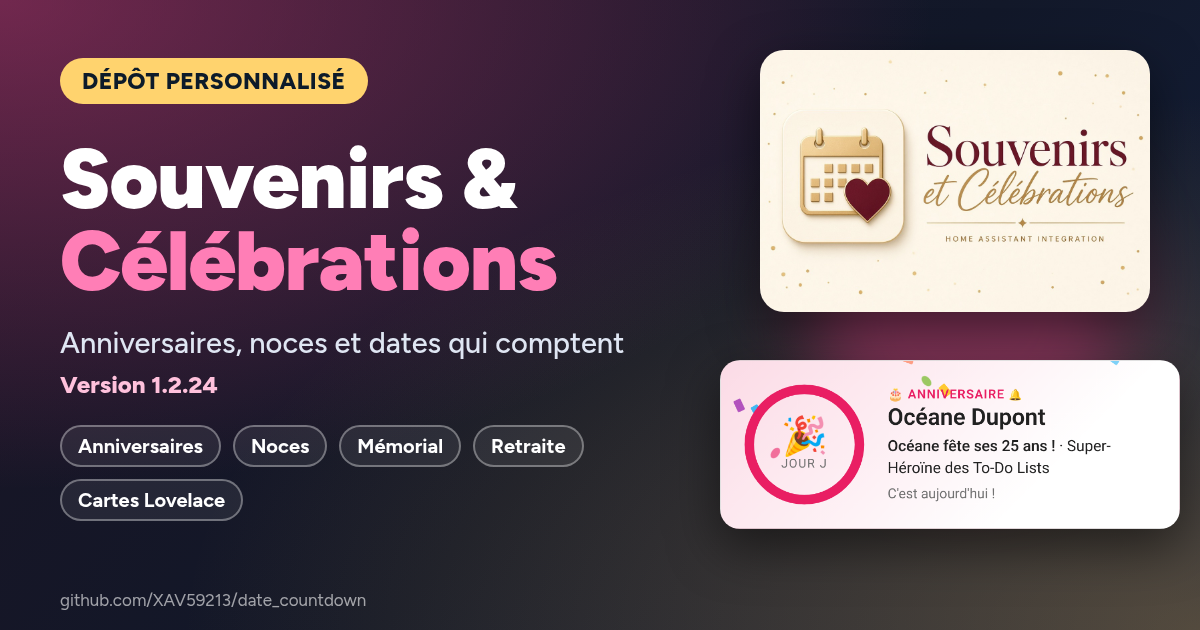
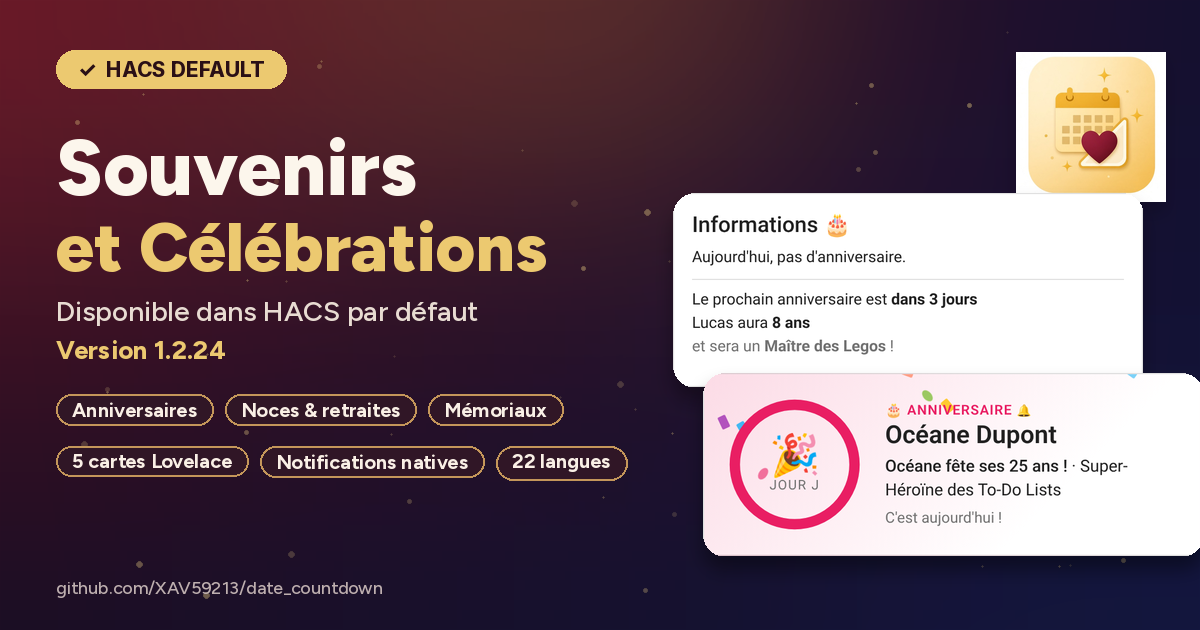
Souvenirs et Célébrations rejoint la bibliothèque officielle de HACS
L’intégration est désormais marquée officielle, avec la bannière HACS DEFAULT.
Le message 5587 du 20 novembre 2026 à 15 h 54 (Europe/Paris) est archivé dans
le sujet 4093, et une note éditoriale date l’entrée officielle (PR hacs/default#14559)
sans modifier le texte du message d’origine 5576. Les compteurs passent à 385 messages.

diff --git a/sujets/4093-integration-home-assistant-souvenirs-et-celebrations/messages.md b/sujets/4093-integration-home-assistant-souvenirs-et-celebrations/messages.md
@@ -1,47 +1,52 @@
 ---
 title: "🎂 Intégration Home Assistant – Souvenirs et Célébrations"
-description: "Je vous présente une intégration personnalisée que j’ai développée pour Home Assistant : Souvenirs et Célébrations . Elle permet de suivre, au fil de…"
+description: "Souvenirs et Célébrations est désormais dans la bibliothèque officielle de HACS : anniversaires, noces et dates qui comptent, avec des cartes Lovelace dédiées."
 image: /sujets/4093-integration-home-assistant-souvenirs-et-celebrations/images/banner-date_countdown.png
 date: 2026-11-20
 ---
 <p class="forum-cta"><a href="https://forumdomotique.com/forums/topic/4093-%F0%9F%8E%82-int%C3%A9gration-home-assistant-souvenirs-et-c%C3%A9l%C3%A9brations/">Lire et commenter sur Forum Domotique</a> · <a href="https://github.com/XAV59213/date_countdown">Dépôt HACS : Souvenirs et Célébrations</a></p>
 
 
-<section class="carousel photo-carousel" data-carousel data-lightbox aria-roledescription="carrousel" aria-label="Photos de l’article (7)" tabindex="0">
+<section class="carousel photo-carousel" data-carousel data-lightbox aria-roledescription="carrousel" aria-label="Photos de l’article (8)" tabindex="0">
 <div class="carousel-track" data-track>
 <figure class="photo-slide" data-slide>
-  <a href="images/apercu-global.png" data-full="images/apercu-global.png" data-alt="Photo 1 — 🎂 Intégration Home Assistant – Souvenirs et Célébrations" aria-label="Agrandir la photo 1 : Photo 1 — 🎂 Intégration Home Assistant – Souvenirs et Célébrations">
-    <img src="images/apercu-global.png" alt="Photo 1 — 🎂 Intégration Home Assistant – Souvenirs et Célébrations" loading="eager">
+  <a href="images/souvenirs-hacs-officiel-cover.png" data-full="images/souvenirs-hacs-officiel-cover.png" data-alt="Souvenirs et Célébrations est dans HACS par défaut" aria-label="Agrandir la photo 1 : Couverture HACS officiel">
+    <img src="images/souvenirs-hacs-officiel-cover.png" alt="Souvenirs et Célébrations est dans HACS par défaut" loading="eager">
   </a>
 </figure>
 <figure class="photo-slide" data-slide>
-  <a href="images/apercu-global-sombre.png" data-full="images/apercu-global-sombre.png" data-alt="Photo 2 — 🎂 Intégration Home Assistant – Souvenirs et Célébrations" aria-label="Agrandir la photo 2 : Photo 2 — 🎂 Intégration Home Assistant – Souvenirs et Célébrations">
-    <img src="images/apercu-global-sombre.png" alt="Photo 2 — 🎂 Intégration Home Assistant – Souvenirs et Célébrations" loading="lazy">
+  <a href="images/apercu-global.png" data-full="images/apercu-global.png" data-alt="Aperçu des cinq cartes, thème clair" aria-label="Agrandir la photo 2 : Aperçu des cinq cartes, thème clair">
+    <img src="images/apercu-global.png" alt="Photo 2 — 🎂 Intégration Home Assistant – Souvenirs et Célébrations" loading="lazy">
   </a>
 </figure>
 <figure class="photo-slide" data-slide>
-  <a href="images/informations.png" data-full="images/informations.png" data-alt="Photo 3 — 🎂 Intégration Home Assistant – Souvenirs et Célébrations" aria-label="Agrandir la photo 3 : Photo 3 — 🎂 Intégration Home Assistant – Souvenirs et Célébrations">
-    <img src="images/informations.png" alt="Photo 3 — 🎂 Intégration Home Assistant – Souvenirs et Célébrations" loading="lazy">
+  <a href="images/apercu-global-sombre.png" data-full="images/apercu-global-sombre.png" data-alt="Aperçu des cinq cartes, thème sombre" aria-label="Agrandir la photo 3 : Aperçu des cinq cartes, thème sombre">
+    <img src="images/apercu-global-sombre.png" alt="Aperçu des cinq cartes, thème sombre" loading="lazy">
   </a>
 </figure>
 <figure class="photo-slide" data-slide>
-  <a href="images/liste.png" data-full="images/liste.png" data-alt="Carte Liste / Agenda" aria-label="Agrandir la photo 4 : Carte Liste / Agenda">
+  <a href="images/informations.png" data-full="images/informations.png" data-alt="Carte Informations" aria-label="Agrandir la photo 4 : Carte Informations">
+    <img src="images/informations.png" alt="Carte Informations" loading="lazy">
+  </a>
+</figure>
+<figure class="photo-slide" data-slide>
+  <a href="images/liste.png" data-full="images/liste.png" data-alt="Carte Liste / Agenda" aria-label="Agrandir la photo 5 : Carte Liste / Agenda">
     <img src="images/liste.png" alt="Carte Liste / Agenda" loading="lazy">
   </a>
 </figure>
 <figure class="photo-slide" data-slide>
-  <a href="images/compte-a-rebours-jour-j.png" data-full="images/compte-a-rebours-jour-j.png" data-alt="Photo 5 — 🎂 Intégration Home Assistant – Souvenirs et Célébrations" aria-label="Agrandir la photo 5 : Photo 5 — 🎂 Intégration Home Assistant – Souvenirs et Célébrations">
-    <img src="images/compte-a-rebours-jour-j.png" alt="Photo 5 — 🎂 Intégration Home Assistant – Souvenirs et Célébrations" loading="lazy">
+  <a href="images/compte-a-rebours-jour-j.png" data-full="images/compte-a-rebours-jour-j.png" data-alt="Carte Compte à rebours, jour J" aria-label="Agrandir la photo 6 : Carte Compte à rebours, jour J">
+    <img src="images/compte-a-rebours-jour-j.png" alt="Carte Compte à rebours, jour J" loading="lazy">
   </a>
 </figure>
 <figure class="photo-slide" data-slide>
-  <a href="images/frise.png" data-full="images/frise.png" data-alt="Photo 6 — 🎂 Intégration Home Assistant – Souvenirs et Célébrations" aria-label="Agrandir la photo 6 : Photo 6 — 🎂 Intégration Home Assistant – Souvenirs et Célébrations">
-    <img src="images/frise.png" alt="Photo 6 — 🎂 Intégration Home Assistant – Souvenirs et Célébrations" loading="lazy">
+  <a href="images/frise.png" data-full="images/frise.png" data-alt="Carte Frise des mois" aria-label="Agrandir la photo 7 : Carte Frise des mois">
+    <img src="images/frise.png" alt="Carte Frise des mois" loading="lazy">
   </a>
 </figure>
 <figure class="photo-slide" data-slide>
-  <a href="images/memoriaux.png" data-full="images/memoriaux.png" data-alt="Photo 7 — 🎂 Intégration Home Assistant – Souvenirs et Célébrations" aria-label="Agrandir la photo 7 : Photo 7 — 🎂 Intégration Home Assistant – Souvenirs et Célébrations">
-    <img src="images/memoriaux.png" alt="Photo 7 — 🎂 Intégration Home Assistant – Souvenirs et Célébrations" loading="lazy">
+  <a href="images/memoriaux.png" data-full="images/memoriaux.png" data-alt="Carte Mémoriaux" aria-label="Agrandir la photo 8 : Carte Mémoriaux">
+    <img src="images/memoriaux.png" alt="Carte Mémoriaux" loading="lazy">
   </a>
 </figure>
 </div>
@@ -57,10 +62,13 @@ date: 2026-11-20
 - **Catégorie :** [Projets et Personnalisations](https://forumdomotique.com/forums/12-projets-et-personnalisations/)
 - **Sujet :** https://forumdomotique.com/forums/topic/4093-%F0%9F%8E%82-int%C3%A9gration-home-assistant-souvenirs-et-c%C3%A9l%C3%A9brations/
 - **Auteur du premier message du sujet :** XAV59213
-- **Messages de XAV59213 dans ce sujet :** 1
+- **Messages de XAV59213 dans ce sujet :** 2
 - **Premier message de XAV59213 :** 20 novembre 2026 à 09:52 (Europe/Paris)
+- **Dernier message de XAV59213 :** 20 novembre 2026 à 15:54 (Europe/Paris)
 
 ---
+
+> **Mise à jour — 20 novembre 2026.** Souvenirs et Célébrations a été ajoutée à la bibliothèque officielle de HACS (pull request [hacs/default#14559](https://github.com/hacs/default/pull/14559), fusionnée le 20 novembre 2026 à 15 h 02, heure de Paris). Voir le [message publié à 15 h 54](#message-5587) dans ce sujet. Le message d’origine ci-dessous est conservé tel qu’il a été publié.
 
 ## Message 1 — 20 novembre 2026 à 09:52 (Europe/Paris)
 
@@ -214,4 +222,200 @@ Vos retours, idées et remontées de bugs sont les bienvenus, ici ou sur GitHub 
 Merci à tous, et bonne domotique ! 🏠  
 Xavier (XAV59213)
 
----
+## Message 2 — 20 novembre 2026 à 15:54 (Europe/Paris) {#message-5587}
+
+- **Identifiant :** `5587`
+- **Lien :** https://forumdomotique.com/forums/topic/4093-%F0%9F%8E%82-int%C3%A9gration-home-assistant-souvenirs-et-c%C3%A9l%C3%A9brations/#findComment-5587
+
+![souvenirs-hacs-officiel-cover.png](images/souvenirs-hacs-officiel-cover.png)
+<!-- source : https://cdn.forumdomotique.com/monthly_2026_11/souvenirs-hacs-officiel-cover.png.6458cd8e9dd77136e8fbcfb71ff6a761.png -->
+
+Bonjour à tous 👋
+
+Ce matin, je vous présentais **Souvenirs et Célébrations**, en précisant qu’elle serait bientôt dans la bibliothèque officielle de HACS. La nouvelle n’a pas tardé : cet après-midi, **Franck Nijhof (frenck)** a examiné, approuvé et fusionné la demande d’ajout. L’intégration figure désormais dans le catalogue par défaut de HACS.
+
+La pull request est la [n° 14559](https://github.com/hacs/default/pull/14559), fusionnée le **20 novembre 2026 à 15 h 02** (heure de Paris). Le robot de HACS précise qu’il peut falloir **jusqu’à 8 heures** avant que la fiche apparaisse dans la liste de chacun.
+
+Concrètement, plus besoin d’ajouter le dépôt personnalisé : il suffit de chercher « Souvenirs et Célébrations » dans HACS, de télécharger, de redémarrer, puis d’ajouter l’intégration. Si vous l’aviez déjà installée comme dépôt personnalisé, vous n’avez rien à faire : tout continue de fonctionner, et les mises à jour se feront comme d’habitude.
+
+La version actuelle est la [**1.2.24**](https://github.com/XAV59213/date_countdown/releases/tag/1.2.24), publiée aujourd’hui à 12 h 50 (heure de Paris). Elle n’ajoute que les badges Forum Domotique et GitHub Stars au README : les capteurs, les cartes et les notifications restent ceux de la 1.2.23 présentée ce matin.
+
+👉 **Le plus simple :** un clic sur ce bouton ouvre directement l’intégration dans votre HACS :
+
+[![Ouvrir dans HACS](images/hacs_repository.svg)](https://my.home-assistant.io/redirect/hacs_repository/?owner=XAV59213&repository=date_countdown&category=integration)
+<!-- source : https://my.home-assistant.io/badges/hacs_repository.svg -->
+
+![Logo Souvenirs et Célébrations](https://raw.githubusercontent.com/XAV59213/date_countdown/main/brand/logo.png)
+<!-- source : https://raw.githubusercontent.com/XAV59213/date_countdown/main/brand/logo.png -->
+
+![Aperçu des cinq cartes, thème clair](images/apercu-global.png)
+<!-- source : https://raw.githubusercontent.com/XAV59213/date_countdown/main/docs/cartes/apercu-global.png -->
+
+### 🤔 Un rappel, pour ceux qui découvrent le sujet
+
+**Souvenirs et Célébrations** (`date_countdown`) permet de suivre, au fil de l’année, les dates qui comptent vraiment : les anniversaires, les noces, les départs à la retraite, les promotions, les événements un peu à part, et aussi ces jours plus silencieux où l’on se souvient de ceux qui ne sont plus là.
+
+Chaque événement devient un appareil dans Home Assistant, avec ses capteurs, son calendrier et, si vous le souhaitez, une notification le jour J. Cinq cartes Lovelace natives, sans aucune dépendance externe, viennent habiller le tableau de bord. Tout se configure dans l’interface graphique : pas besoin d’écrire une ligne de YAML pour ajouter un événement.
+
+### 📌 Six types d’événements
+
+- 🎂 **Anniversaire**
+- 💍 **Anniversaire de mariage**, avec le nom des noces (Coton, Argent, Or…)
+- 🕯 **Mémorial** : l’âge qu’aurait eu la personne, les années depuis le décès, et l’anniversaire du décès dans le calendrier
+- 🏖 **Retraite**, avec estimation de la date et médaille du travail
+- 🏆 **Promotion**
+- 🌟 **Événement spécial**
+
+Un genre peut être indiqué (homme, femme ou non précisé) : les textes, les notifications et les catégories d’âge s’accordent alors correctement, y compris au féminin.
+
+Les événements datés du **29 février** sont observés le 28 février les années non bissextiles, selon l’usage courant en France. La date d’origine n’est jamais modifiée.
+
+### 📟 Un appareil par événement
+
+Pour chaque événement, l’intégration crée un appareil, puis les capteurs qui lui correspondent :
+
+- le nombre de **jours restants** (c’est l’état du capteur principal)
+- la **prochaine date**
+- l’**âge**, l’**âge au prochain anniversaire** et une **catégorie d’âge** humoristique (accordée au genre)
+- les **noces** pour un mariage, la **médaille du travail** pour une retraite
+- un **binary_sensor « Aujourd’hui »**, actif le jour J
+- des **capteurs de date d’origine** (naissance, mariage, promotion, événement, début de carrière ou décès, selon le type)
+- une **entité calendrier**, qui inclut aussi l’anniversaire du décès pour les mémoriaux
+
+Ces entités se prêtent aussi bien à un tableau de bord qu’à une automatisation ou à une annonce vocale.
+
+### 🔔 Notifications natives
+
+Chaque événement peut envoyer une notification le jour J, **sans automatisation à écrire**. Le réglage se fait dans les options de l’événement : *Paramètres → Appareils et services → Souvenirs et Célébrations → Configurer les notifications*.
+
+- services `notify.*` classiques (application mobile, etc.) et entités de notification modernes, via `notify.send_message`
+- heure d’envoi au choix (9 h par défaut)
+- rappel **J-N** (par exemple une semaine avant)
+- notification distincte pour l’**anniversaire du décès**, sur les mémoriaux
+- notification **persistante** dans Home Assistant, si vous le souhaitez
+- **anti-doublon** : rien n’est renvoyé après un redémarrage, et un rattrapage a lieu si Home Assistant démarre après l’heure prévue
+- un **service de test** (`date_countdown.send_test_notification`) pour vérifier le message tout de suite
+
+### 🎨 Cinq cartes Lovelace natives
+
+Les cartes sont livrées avec l’intégration : rien à copier dans `www`, aucune ressource à ajouter à la main. Dans le tableau de bord, il suffit d’ajouter une carte et de chercher **« Souvenirs et Célébrations »**. Un éditeur visuel permet de régler le titre, les capteurs et les options d’affichage. Les cartes suivent le thème clair ou sombre de Home Assistant.
+
+- **Informations** : l’anniversaire du jour, ou le prochain, avec l’âge et la catégorie d’âge
+
+![Carte Informations](images/informations.png)
+<!-- source : https://raw.githubusercontent.com/XAV59213/date_countdown/main/docs/cartes/informations.png -->
+
+- **Liste / Agenda** : tous les événements, regroupés par type, avec un badge selon la proximité du jour J
+
+![Carte Liste / Agenda](images/liste.png)
+<!-- source : https://raw.githubusercontent.com/XAV59213/date_countdown/main/docs/cartes/liste.png -->
+
+- **Compte à rebours** : un événement en grand, avec un anneau de progression sur l’année et des confettis le jour J (ils respectent l’option « réduire les animations »)
+
+![Carte Compte à rebours, jour J](images/compte-a-rebours-jour-j.png)
+<!-- source : https://raw.githubusercontent.com/XAV59213/date_countdown/main/docs/cartes/compte-a-rebours-jour-j.png -->
+
+- **Frise des mois** : les mois qui viennent, en frise verticale ou en grille
+
+![Carte Frise des mois](images/frise.png)
+<!-- source : https://raw.githubusercontent.com/XAV59213/date_countdown/main/docs/cartes/frise.png -->
+
+- **Mémoriaux** : une carte plus recueillie, avec une bougie, l’âge qu’aurait eu la personne et les années depuis le départ
+
+![Carte Mémoriaux](images/memoriaux.png)
+<!-- source : https://raw.githubusercontent.com/XAV59213/date_countdown/main/docs/cartes/memoriaux.png -->
+
+Vous pouvez aussi les ajouter en YAML. Voici un exemple de carte Liste, tiré des [exemples du dépôt](https://github.com/XAV59213/date_countdown/tree/main/examples/lovelace/) :
+
+```yaml
+type: custom:date-countdown-list-card
+title: Souvenirs et Célébrations
+group_by_type: true
+max_items: 10
+horizon_days: 120
+```
+
+### 🛠 Installation pas à pas (bibliothèque officielle HACS)
+
+*Pour ceux qui débutent : HACS, c’est un peu le « magasin d’applications » communautaire de Home Assistant. Il permet d’installer et de mettre à jour en quelques clics des intégrations qui ne sont pas fournies d’origine. S’il n’est pas encore installé chez vous, le guide officiel est ici :* [https://hacs.xyz/docs/use/](https://hacs.xyz/docs/use/)
+
+L’intégration fait désormais partie de la **bibliothèque HACS par défaut** : plus besoin d’ajouter un dépôt personnalisé. Il faut Home Assistant **2024.7.0** ou plus récent.
+
+**Le plus rapide :** un clic sur ce bouton ouvre directement l’intégration dans votre HACS :
+
+[![Ouvrir dans HACS](images/hacs_repository.svg)](https://my.home-assistant.io/redirect/hacs_repository/?owner=XAV59213&repository=date_countdown&category=integration)
+<!-- source : https://my.home-assistant.io/badges/hacs_repository.svg -->
+
+**Ou à la main :**
+
+1. Dans Home Assistant, ouvrez **HACS** dans le menu de gauche
+2. Tapez **Souvenirs et Célébrations** dans la barre de recherche (vous pouvez aussi chercher **Date Countdown**)
+3. Ouvrez la fiche et cliquez sur **Télécharger**
+4. Redémarrez Home Assistant (**Paramètres > Système > bouton ⏻ en haut à droite > Redémarrer**)
+5. Allez dans **Paramètres > Appareils et services > + Ajouter une intégration**, et cherchez **Souvenirs et Célébrations**
+
+⚠ HACS ne fait que **télécharger les fichiers** : ce sont le redémarrage et l’étape 5 qui créent réellement l’intégration et ses entités.
+
+Si la fiche n’apparaît pas encore dans la recherche, patientez un peu : le robot de HACS indique un délai pouvant aller jusqu’à 8 heures après l’ajout au catalogue. Le bouton ci-dessus reste le chemin le plus direct.
+
+Raccourci pour l’étape 5 : <https://my.home-assistant.io/redirect/config_flow_start/?domain=date_countdown>
+
+### ⚙ La configuration, étape par étape
+
+L’assistant vous pose les questions dans l’ordre, sans aucun YAML. Chaque événement correspond à une entrée distincte :
+
+1. **Type** d’événement, parmi les six proposés
+2. **Nom** (obligatoire) et **prénom** (optionnel)
+3. **Date** au format `JJ/MM/AAAA`
+4. Pour un mémorial : date de décès, facultative
+5. Pour une retraite : date de début du travail, type de carrière, option « travaux pénibles »
+6. Le **genre**, si vous souhaitez que les textes s’accordent
+
+Pour modifier un événement ou régler ses notifications : dans l’entrée de l’intégration, `⋮ > Options`. Pour le supprimer, on retire simplement l’entrée correspondante dans **Paramètres > Appareils et services**.
+
+### 🔔 Exemple d’automatisation
+
+Les notifications natives suffisent dans la plupart des cas. Si vous préférez écrire la vôtre — par exemple un rappel à J-7, avec l’âge qu’aurait eu la personne — voici l’exemple du dépôt :
+
+{% raw %}
+```yaml
+automation:
+  - alias: "Rappel mémorial 7 jours avant"
+    trigger:
+      platform: numeric_state
+      entity_id: sensor.memorial_jean_01011950
+      value: 7
+    action:
+      service: notify.notify
+      data:
+        message: >
+          
+```
+
+`📅`
+
+` Dans 7 jours : anniversaire de {{ state_attr('sensor.memorial_jean_01011950', 'friendly_name') }}.           Âge s’il était en vie : {{ state_attr('sensor.memorial_jean_01011950', 'age_if_alive') }} ans.`
+{% endraw %}
+
+### 🌍 Langues et qualité
+
+L’interface est traduite en **22 langues**. Les cartes Lovelace, les messages de notification et les catégories d’âge le sont en français, anglais, allemand, espagnol et italien (avec un repli en anglais pour les autres langues).
+
+Côté technique, la 1.2.24 passe **142 tests**, avec une validation continue **HACS** et **Hassfest**.
+
+### 🙏 Remerciements
+
+Un grand merci à **frenck**, pour le temps qu’il consacre à relire les intégrations de la bibliothèque HACS, et pour avoir accueilli Souvenirs et Célébrations aujourd’hui. Merci aussi à tous ceux qui suivent le projet, ici ou sur GitHub : vos retours aident l’intégration à rester simple, soignée et utile au quotidien.
+
+### 🔗 Liens
+
+- Demande d’ajout à HACS (fusionnée) : <https://github.com/hacs/default/pull/14559>
+- Dépôt GitHub : <https://github.com/XAV59213/date_countdown>
+- Dernière version (1.2.24) : <https://github.com/XAV59213/date_countdown/releases/tag/1.2.24>
+- Signaler un bug ou proposer une idée : <https://github.com/XAV59213/date_countdown/issues>
+- Exemples de cartes Lovelace : <https://github.com/XAV59213/date_countdown/tree/main/examples/lovelace/>
+
+Vos retours, idées et remontées de bugs sont les bienvenus, ici ou sur GitHub 😉
+
+Merci à tous, et bonne domotique ! 🏠  
+Xavier (XAV59213)

diff --git a/README.md b/README.md
@@ -24,7 +24,7 @@ Chaque sujet se trouve dans un dossier, avec un fichier Markdown (`messages.md`)
 
 ## Contenu
 
-- **384 messages** de forum, répartis dans **214 sujets** (dont **50 sujets ouverts par XAV59213**)
+- **385 messages** de forum, répartis dans **214 sujets** (dont **50 sujets ouverts par XAV59213**)
 - **10 articles** rédigés par XAV59213 (actualités, guides et tests), avec ses commentaires éventuels
 - **2 articles d’autres auteurs** sur lesquels il a commenté (commentaires uniquement)
 - Le texte **[À propos de moi](apropos-de-moi.md)** du profil
@@ -56,7 +56,7 @@ L’archive est organisée **un dossier par sujet** (ou par article) sous `sujet
 | 🏡 [Projet en cours] Maison 3D – Votre maison qui vit au rythme de la météo dans Home Assistant | Projets et Personnalisations | 1 | 20 novembre 2026 | [forum](https://forumdomotique.com/forums/topic/4096-%F0%9F%8F%A1-projet-en-cours-maison-3d-votre-maison-qui-vit-au-rythme-de-la-m%C3%A9t%C3%A9o-dans-home-assistant/) | [`sujets/4096-projet-en-cours-maison-3d-votre-maison-qui-vit-au-rythme-de-la-meteo-dans-home-a`](sujets/4096-projet-en-cours-maison-3d-votre-maison-qui-vit-au-rythme-de-la-meteo-dans-home-a/messages.md) |
 | 🚀 Starship Tracker – Suivez les lancements Starship de SpaceX dans Home Assistant | Projets et Personnalisations | 1 | 20 novembre 2026 | [forum](https://forumdomotique.com/forums/topic/4095-%F0%9F%9A%80-starship-tracker-suivez-les-lancements-starship-de-spacex-dans-home-assistant/) | [`sujets/4095-starship-tracker-suivez-les-lancements-starship-de-spacex-dans-home-assistant`](sujets/4095-starship-tracker-suivez-les-lancements-starship-de-spacex-dans-home-assistant/messages.md) |
 | 🌙 Phase de la Lune – La lune, son illumination et une anecdote par jour dans Home Assistant | Projets et Personnalisations | 1 | 20 novembre 2026 | [forum](https://forumdomotique.com/forums/topic/4094-%F0%9F%8C%99-phase-de-la-lune-la-lune-son-illumination-et-une-anecdote-par-jour-dans-home-assistant/) | [`sujets/4094-phase-de-la-lune-la-lune-son-illumination-et-une-anecdote-par-jour-dans-home-ass`](sujets/4094-phase-de-la-lune-la-lune-son-illumination-et-une-anecdote-par-jour-dans-home-ass/messages.md) |
-| 🎂 Intégration Home Assistant – Souvenirs et Célébrations | Projets et Personnalisations | 1 | 20 novembre 2026 | [forum](https://forumdomotique.com/forums/topic/4093-%F0%9F%8E%82-int%C3%A9gration-home-assistant-souvenirs-et-c%C3%A9l%C3%A9brations/) | [`sujets/4093-integration-home-assistant-souvenirs-et-celebrations`](sujets/4093-integration-home-assistant-souvenirs-et-celebrations/messages.md) |
+| 🎂 Intégration Home Assistant – Souvenirs et Célébrations | Projets et Personnalisations | 2 | 20 novembre 2026 | [forum](https://forumdomotique.com/forums/topic/4093-%F0%9F%8E%82-int%C3%A9gration-home-assistant-souvenirs-et-c%C3%A9l%C3%A9brations/) | [`sujets/4093-integration-home-assistant-souvenirs-et-celebrations`](sujets/4093-integration-home-assistant-souvenirs-et-celebrations/messages.md) |
 | **Freebox Homexa est dans HACS par défaut 🎉 (et pas mal de nouveautés)** | Intégrations et Add-ons | 2 | 2 novembre 2026 | [forum](https://forumdomotique.com/forums/topic/4074-freebox-homexa-est-dans-hacs-par-d%C3%A9faut-%F0%9F%8E%89-et-pas-mal-de-nouveaut%C3%A9s/) | [`sujets/4074-freebox-homexa-est-dans-hacs-par-defaut-et-pas-mal-de-nouveautes`](sujets/4074-freebox-homexa-est-dans-hacs-par-defaut-et-pas-mal-de-nouveautes/messages.md) |
 | 🏠 Freebox Homexa passe en 28.8.64 ! | Intégrations et Add-ons | 1 | 25 octobre 2026 | [forum](https://forumdomotique.com/forums/topic/4063-%F0%9F%8F%A0-freebox-homexa-passe-en-28864/) | [`sujets/4063-freebox-homexa-passe-en-28864`](sujets/4063-freebox-homexa-passe-en-28864/messages.md) |
 | Guide utilisateur Freebox Homexa — de l’installation à l’utilisation (v28.8.24) | Projets et Personnalisations | 1 | 27 septembre 2026 | [forum](https://forumdomotique.com/forums/topic/4008-guide-utilisateur-freebox-homexa-de-linstallation-%C3%A0-lutilisation-v28824/) | [`sujets/4008-guide-utilisateur-freebox-homexa-de-linstallation-a-lutilisation-v28824`](sujets/4008-guide-utilisateur-freebox-homexa-de-linstallation-a-lutilisation-v28824/messages.md) |

diff --git a/tous-les-sujets.md b/tous-les-sujets.md
@@ -21,7 +21,7 @@ Les publications sont classées pour bien séparer **les dépôts GitHub**, **le
 | 🏡 [Projet en cours] Maison 3D – Votre maison qui vit au rythme de la météo dans Home Assistant | Projets et Personnalisations | 1 | 20 novembre 2026 | [forum](https://forumdomotique.com/forums/topic/4096-%F0%9F%8F%A1-projet-en-cours-maison-3d-votre-maison-qui-vit-au-rythme-de-la-m%C3%A9t%C3%A9o-dans-home-assistant/) | [lire]({{ '/sujets/4096-projet-en-cours-maison-3d-votre-maison-qui-vit-au-rythme-de-la-meteo-dans-home-a/messages.html' | relative_url }}) |
 | 🚀 Starship Tracker – Suivez les lancements Starship de SpaceX dans Home Assistant | Projets et Personnalisations | 1 | 20 novembre 2026 | [forum](https://forumdomotique.com/forums/topic/4095-%F0%9F%9A%80-starship-tracker-suivez-les-lancements-starship-de-spacex-dans-home-assistant/) | [lire]({{ '/sujets/4095-starship-tracker-suivez-les-lancements-starship-de-spacex-dans-home-assistant/messages.html' | relative_url }}) |
 | 🌙 Phase de la Lune – La lune, son illumination et une anecdote par jour dans Home Assistant | Projets et Personnalisations | 1 | 20 novembre 2026 | [forum](https://forumdomotique.com/forums/topic/4094-%F0%9F%8C%99-phase-de-la-lune-la-lune-son-illumination-et-une-anecdote-par-jour-dans-home-assistant/) | [lire]({{ '/sujets/4094-phase-de-la-lune-la-lune-son-illumination-et-une-anecdote-par-jour-dans-home-ass/messages.html' | relative_url }}) |
-| 🎂 Intégration Home Assistant – Souvenirs et Célébrations | Projets et Personnalisations | 1 | 20 novembre 2026 | [forum](https://forumdomotique.com/forums/topic/4093-%F0%9F%8E%82-int%C3%A9gration-home-assistant-souvenirs-et-c%C3%A9l%C3%A9brations/) | [lire]({{ '/sujets/4093-integration-home-assistant-souvenirs-et-celebrations/messages.html' | relative_url }}) |
+| 🎂 Intégration Home Assistant – Souvenirs et Célébrations | Projets et Personnalisations | 2 | 20 novembre 2026 | [forum](https://forumdomotique.com/forums/topic/4093-%F0%9F%8E%82-int%C3%A9gration-home-assistant-souvenirs-et-c%C3%A9l%C3%A9brations/) | [lire]({{ '/sujets/4093-integration-home-assistant-souvenirs-et-celebrations/messages.html' | relative_url }}) |
 | **Freebox Homexa est dans HACS par défaut 🎉 (et pas mal de nouveautés)** | Intégrations et Add-ons | 2 | 2 novembre 2026 | [forum](https://forumdomotique.com/forums/topic/4074-freebox-homexa-est-dans-hacs-par-d%C3%A9faut-%F0%9F%8E%89-et-pas-mal-de-nouveaut%C3%A9s/) | [lire]({{ '/sujets/4074-freebox-homexa-est-dans-hacs-par-defaut-et-pas-mal-de-nouveautes/messages.html' | relative_url }}) |
 | 🏠 Freebox Homexa passe en 28.8.64 ! | Intégrations et Add-ons | 1 | 25 octobre 2026 | [forum](https://forumdomotique.com/forums/topic/4063-%F0%9F%8F%A0-freebox-homexa-passe-en-28864/) | [lire]({{ '/sujets/4063-freebox-homexa-passe-en-28864/messages.html' | relative_url }}) |
 | Guide utilisateur Freebox Homexa — de l’installation à l’utilisation (v28.8.24) | Projets et Personnalisations | 1 | 27 septembre 2026 | [forum](https://forumdomotique.com/forums/topic/4008-guide-utilisateur-freebox-homexa-de-linstallation-%C3%A0-lutilisation-v28824/) | [lire]({{ '/sujets/4008-guide-utilisateur-freebox-homexa-de-linstallation-a-lutilisation-v28824/messages.html' | relative_url }}) |
